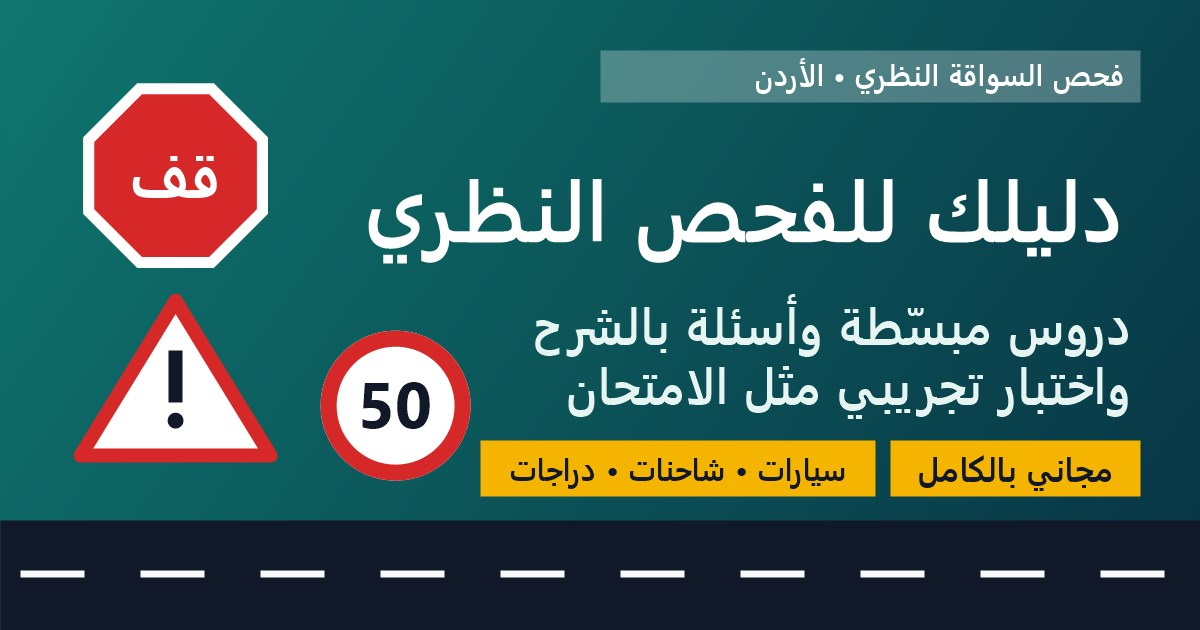
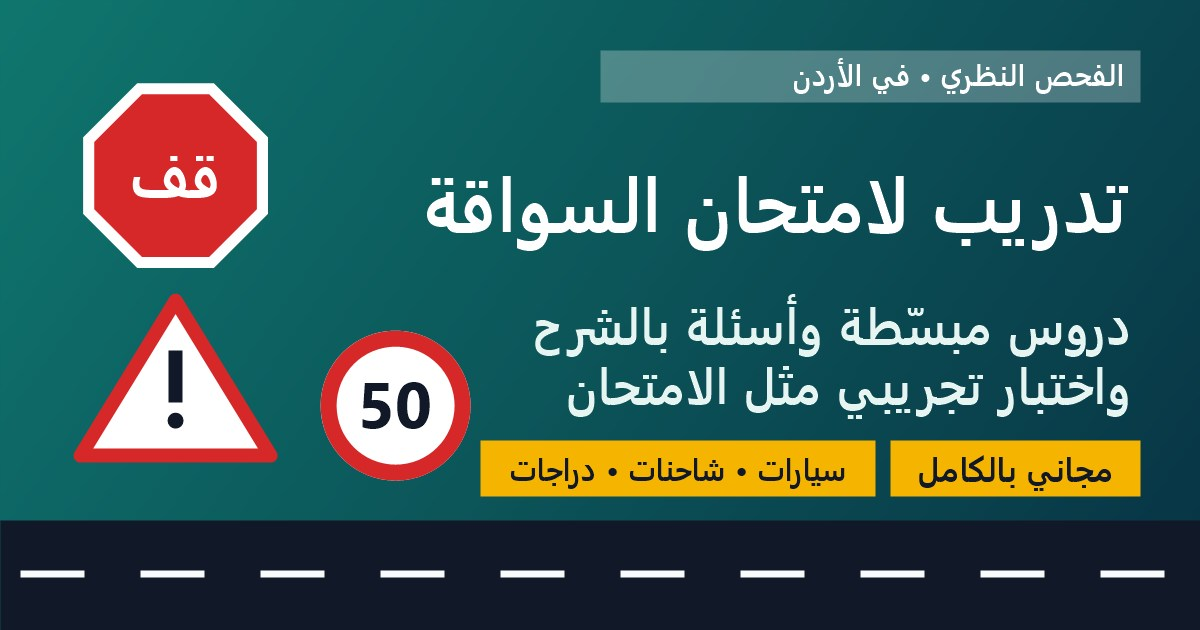
Rename site to "تدريب لامتحان السواقة في الأردن"
Update the site name, short name (header, page titles, home-screen label),
web manifest, README and the generated share image.

Changed region(s): [[0.3083, 0.2714, 0.9558, 0.4222], [0.6167, 0.0905, 0.9558, 0.1508]]

diff --git a/index.html b/index.html
@@ -6,13 +6,13 @@
     <meta name="theme-color" content="#0f766e" />
     <meta name="mobile-web-app-capable" content="yes" />
     <meta name="apple-mobile-web-app-capable" content="yes" />
-    <meta name="apple-mobile-web-app-title" content="الفحص النظري" />
+    <meta name="apple-mobile-web-app-title" content="تدريب السواقة" />
     <meta name="format-detection" content="telephone=no" />
     <link rel="manifest" href="/manifest.webmanifest" />
     <link rel="apple-touch-icon" href="/apple-touch-icon.png" />
     <link rel="icon" href="/favicon.svg" type="image/svg+xml" />
     <link rel="icon" href="/icon-192.png" sizes="192x192" type="image/png" />
-    <title>دليلك للفحص النظري</title>
+    <title>تدريب لامتحان السواقة في الأردن</title>
     <!--seo-->
   </head>
   <body>

diff --git a/src/site.config.js b/src/site.config.js
@@ -1,6 +1,8 @@
 // إعدادات النشر والـ SEO. عدّل القيم التالية مرة واحدة قبل النشر.
 export const SITE = {
-  name: 'دليلك للفحص النظري',
+  name: 'تدريب لامتحان السواقة في الأردن',
+  // اسم مختصر للترويسة وعنوان الصفحة (<title>) وأيقونة الهاتف
+  shortName: 'تدريب لامتحان السواقة',
   // عنوان موقعك بعد النشر (بدون / في النهاية). مثال Cloudflare Pages: https://اسم-المشروع.pages.dev
   // يمكن تجاوزه عند البناء: SITE_URL=https://example.com npm run build
   url: 'https://jo-driving-theory.pages.dev',

diff --git a/src/seo.js b/src/seo.js
@@ -219,5 +219,5 @@ export function trackForRoute(parts) {
 
 /** عنوان الصفحة في <title>: نضيف اسم الموقع إن بقي العنوان معقول الطول */
 export function fullTitle(m) {
-  return m.title.length + SITE.name.length + 3 <= 68 ? `${m.title} | ${SITE.name}` : m.title;
+  return m.title.length + SITE.shortName.length + 3 <= 68 ? `${m.title} | ${SITE.shortName}` : m.title;
 }

diff --git a/src/App.jsx b/src/App.jsx
@@ -36,7 +36,7 @@ function Header({ active }) {
               <path d="M50 14 88 82H12Z" fill="#fff" stroke="#f4b400" strokeWidth="9" strokeLinejoin="round" />
             </svg>
           </span>
-          <span>{SITE.name}</span>
+          <span>{SITE.shortName}</span>
         </Link>
         <Link to="" className="track-chip" title="تغيير الفئة">
           {track.emoji} {track.short}

diff --git a/README.md b/README.md
@@ -1,4 +1,4 @@
-# دليلك للفحص النظري
+# تدريب لامتحان السواقة في الأردن
 
 موقع تفاعلي (React + Vite) للاستعداد للفحص النظري لرخصة القيادة، يركّز على **الفهم** لا الحفظ. يغطي ثلاث فئات تختارها من الصفحة الرئيسية:
 
